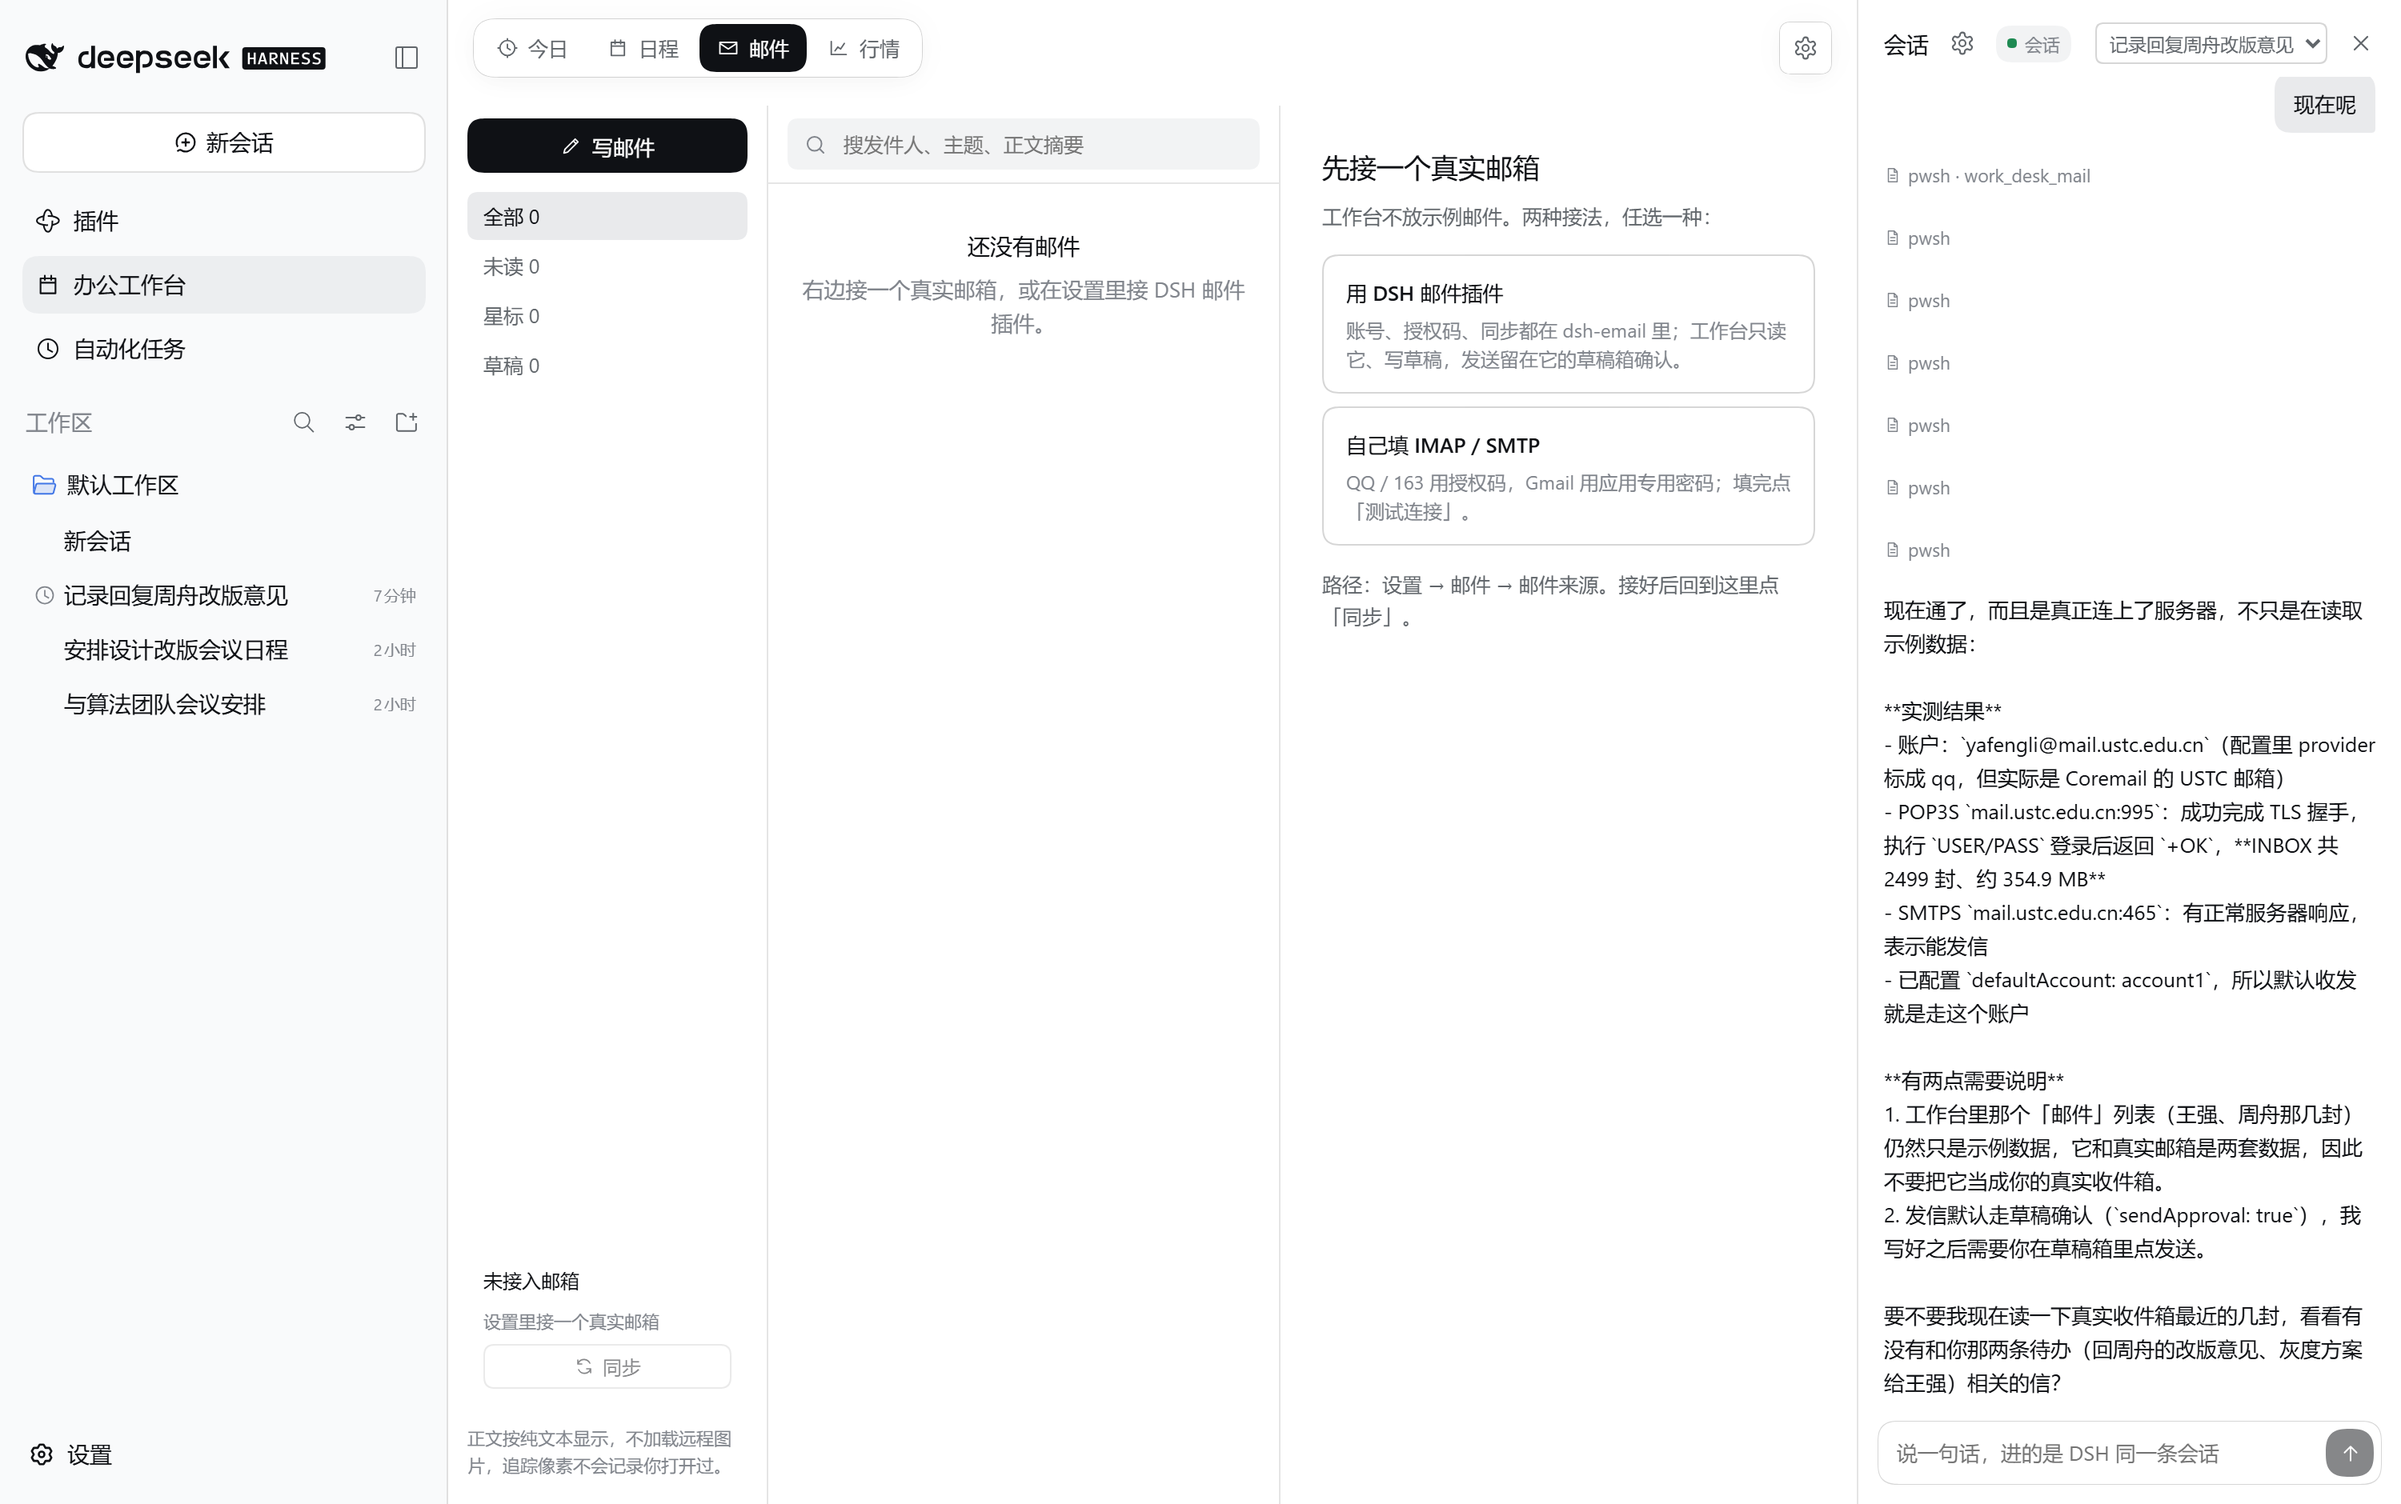
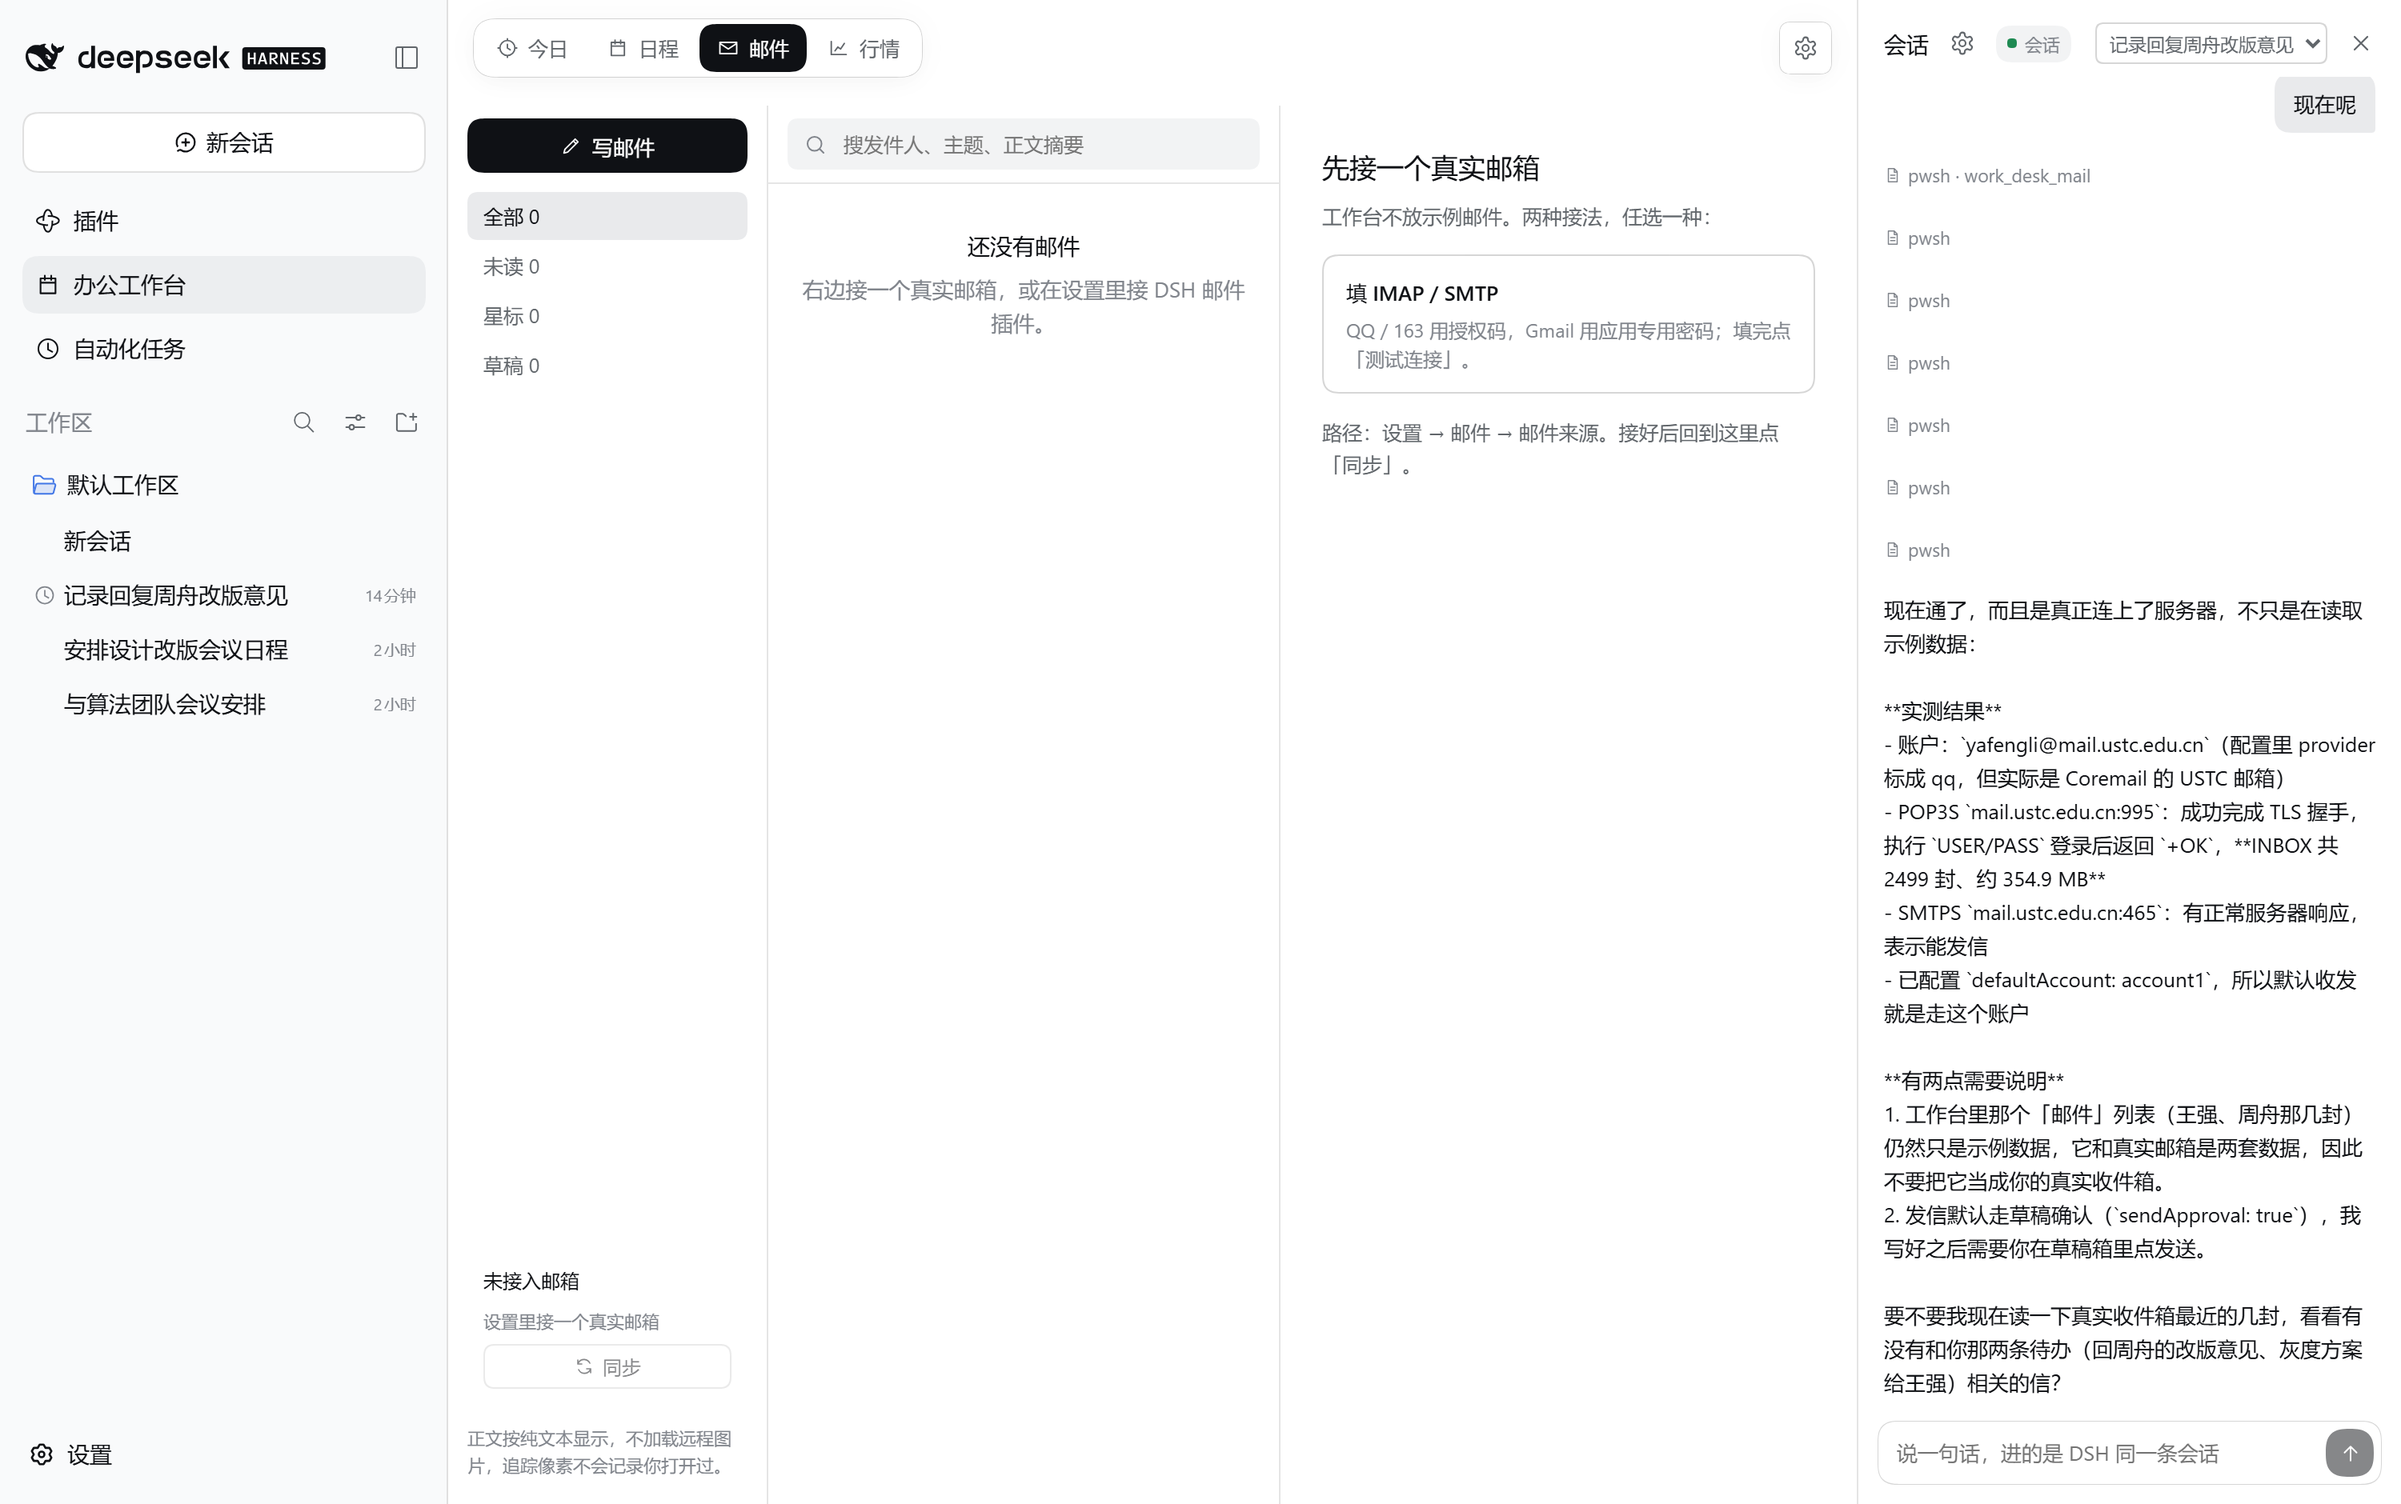
fix: 邮件工具在 PTC 模式下也能调；补 sync 动作与设置文件 BOM 容错
dshmail: 不再要求 selectExecutor().describe() 公布 email_*，按名字派发即可。\ntools: work_desk_mail 增加 sync。\nsettings: 读取时去掉 BOM。\nhost: 启动后多次重试自动认领 dsh-email 账号。

Changed region(s): [[0.558, 0.2777, 0.744, 0.4319], [0.558, 0.1851, 0.744, 0.2468]]

diff --git a/src/tools.js b/src/tools.js
@@ -3,7 +3,7 @@
 import { applyOps } from './ops.js'
 import { addDays, eventsOnDay, fmtTime } from './calendar.js'
 import { evaluateAlerts } from './sync.js'
-import { draftVia, emailTool, listMail, markMailVia, readMailVia } from './mail/dshmail.js'
+import { draftVia, emailTool, listMail, markMailVia, readMailVia, rowOf } from './mail/dshmail.js'
 import { markMail, readMail } from './mail/service.js'
 import { normalizeCode } from './quotes.js'
 import { snippetOf } from './mail/mime.js'
@@ -224,7 +224,7 @@ export function registerTools(ctx, desk) {
     parameters: {
       type: 'object',
       properties: {
-        action: { type: 'string', enum: ['list', 'read', 'mark', 'draft'], description: '要做什么' },
+        action: { type: 'string', enum: ['list', 'read', 'mark', 'draft', 'sync'], description: '要做什么；sync 从邮箱拉最新' },
         id: { type: 'string', description: 'read/mark 时的邮件 id' },
         mark: { type: 'string', enum: ['read', 'unread', 'star', 'unstar'], description: 'mark 时改什么' },
         unreadOnly: { type: 'boolean', description: 'list 只看未读' },
@@ -248,6 +248,19 @@ export function registerTools(ctx, desk) {
       const state = await desk.store.read()
       const action = String(args?.action ?? '')
       const brief = mail => ({ id: mail.id, from: mail.from?.name || mail.from?.address, subject: mail.subject, date: mail.date, unread: Boolean(mail.unread), starred: Boolean(mail.starred) })
+
+      if (action === 'sync') {
+        if (!emailTool(ctx)) throw new Error('没有可用的邮件插件；请在 设置 → 邮件 里选择来源')
+        const result = await listMail({ ctx, settings }, { limit: 40 })
+        const rows = result.messages.map(message => rowOf(message, { account: result.account, folder: result.folder }))
+        await desk.store.mutate('同步邮件', draft => {
+          const index = new Map(draft.mails.map(row => [row.id, row]))
+          for (const row of rows) index.set(row.id, { ...(index.get(row.id) ?? {}), ...row })
+          draft.mails = [...index.values()].sort((a, b) => Date.parse(b.date) - Date.parse(a.date))
+          return draft
+        })
+        return { receipt: `同步了 ${rows.length} 封（账号 ${result.account || '未知'}）`, mails: rows.slice(0, 8).map(brief) }
+      }
 
       if (action === 'list') {
         const limit = Math.max(1, Math.min(20, Number(args?.limit) || 8))

diff --git a/src/mail/dshmail.js b/src/mail/dshmail.js
@@ -16,18 +16,17 @@ const DEFAULT_FOLDER = 'INBOX'
 export function emailTool(ctx) {
   if (typeof ctx?.get !== 'function') return null
   const tools = ctx.get('tools')
-  if (typeof tools?.executable !== 'function' || typeof tools?.execute !== 'function' || typeof tools?.selectExecutor !== 'function') return null
+  if (typeof tools?.execute !== 'function' || typeof tools?.executable !== 'function') return null
   try {
-    const executor = tools.selectExecutor()
-    if (typeof executor?.describe !== 'function') return null
     const names = {}
     for (const name of [...NEEDED, ...OPTIONAL]) {
       const definition = tools.executable(name)
-      if (!definition) continue
-      // 默认执行器必须声明可以直接调用这个工具
-      if (executor.describe([definition])?.schemas?.some(schema => schema.name === name)) names[name] = definition
+      if (definition) names[name] = definition
     }
-    return NEEDED.every(name => names[name]) ? { tools, names } : null
+    if (!NEEDED.every(name => names[name])) return null
+    // 不再要求默认执行器在 describe() 里公布这些工具：PTC 执行器只公布 run_code，
+    // 但 tools.execute 仍然按名字派发。真派发不了时会在 execute 阶段报出来。
+    return { tools, names }
   } catch {
     // 执行器卸载/不可用时不影响 demo 和自建 IMAP
     return null

diff --git a/src/host.js b/src/host.js
@@ -474,7 +474,12 @@ export default {
     })
     settings.read().then(saved => setAssistantModel(saved.assistant)).catch(() => {})
     // 已经装了 dsh-email 并配好账号时直接用它，不再让用户填一遍 IMAP
-    preferDshMail(ctx, settings).catch(() => {})
+    // 插件加载顺序不一定保证 tools 已就绪，所以隔几秒再重试几次
+    ctx.effect(() => {
+      preferDshMail(ctx, settings).catch(() => {})
+      const timers = [3000, 10000, 30000].map(delay => setTimeout(() => preferDshMail(ctx, settings).catch(() => {}), delay))
+      return () => { for (const timer of timers) clearTimeout(timer) }
+    }, 'dsh-work-desk: mail autodetect')
     // 把工作台注册成宿主工具：DSH 对话里的 Agent 可以直接加日程、记待办、读状态
     ctx.effect(() => registerTools(ctx, desk), 'dsh-work-desk: agent tools')
     ctx.effect(() => {

diff --git a/test/dshmail.test.js b/test/dshmail.test.js
@@ -38,10 +38,13 @@ const LIST = {
   ],
 }
 
-test('检测：缺工具、PTC 执行器、没有 tools 服务都判为不可用', () => {
+test('检测：缺工具、没有 tools 服务不可用；PTC 执行器仍可用（execute 按名字派发）', () => {
   assert.equal(emailTool({ get: () => undefined }), null)
-  assert.equal(emailTool(fakeCtx({ ptc: true })), null)
   assert.equal(emailTool(fakeCtx({ missing: ['email_read'] })), null)
+  // PTC 执行器的 describe() 只公布 run_code，但工具本身在册，照样可以调
+  const ptc = emailTool(fakeCtx({ ptc: true }))
+  assert.ok(ptc)
+  assert.ok(ptc.names.email_list)
   const ok = emailTool(fakeCtx())
   assert.ok(ok)
   assert.ok(ok.names.email_draft)

diff --git a/src/settings.js b/src/settings.js
@@ -42,7 +42,8 @@ export class Settings {
 
   async read() {
     try {
-      const saved = JSON.parse(await readFile(this.file, 'utf8'))
+      // 有人会用带 BOM 的编辑器改这个文件，JSON.parse 不认 BOM
+      const saved = JSON.parse((await readFile(this.file, 'utf8')).replace(/^\uFEFF/, ''))
       this.value = {
         ...DEFAULTS, ...saved,
         mail: {
